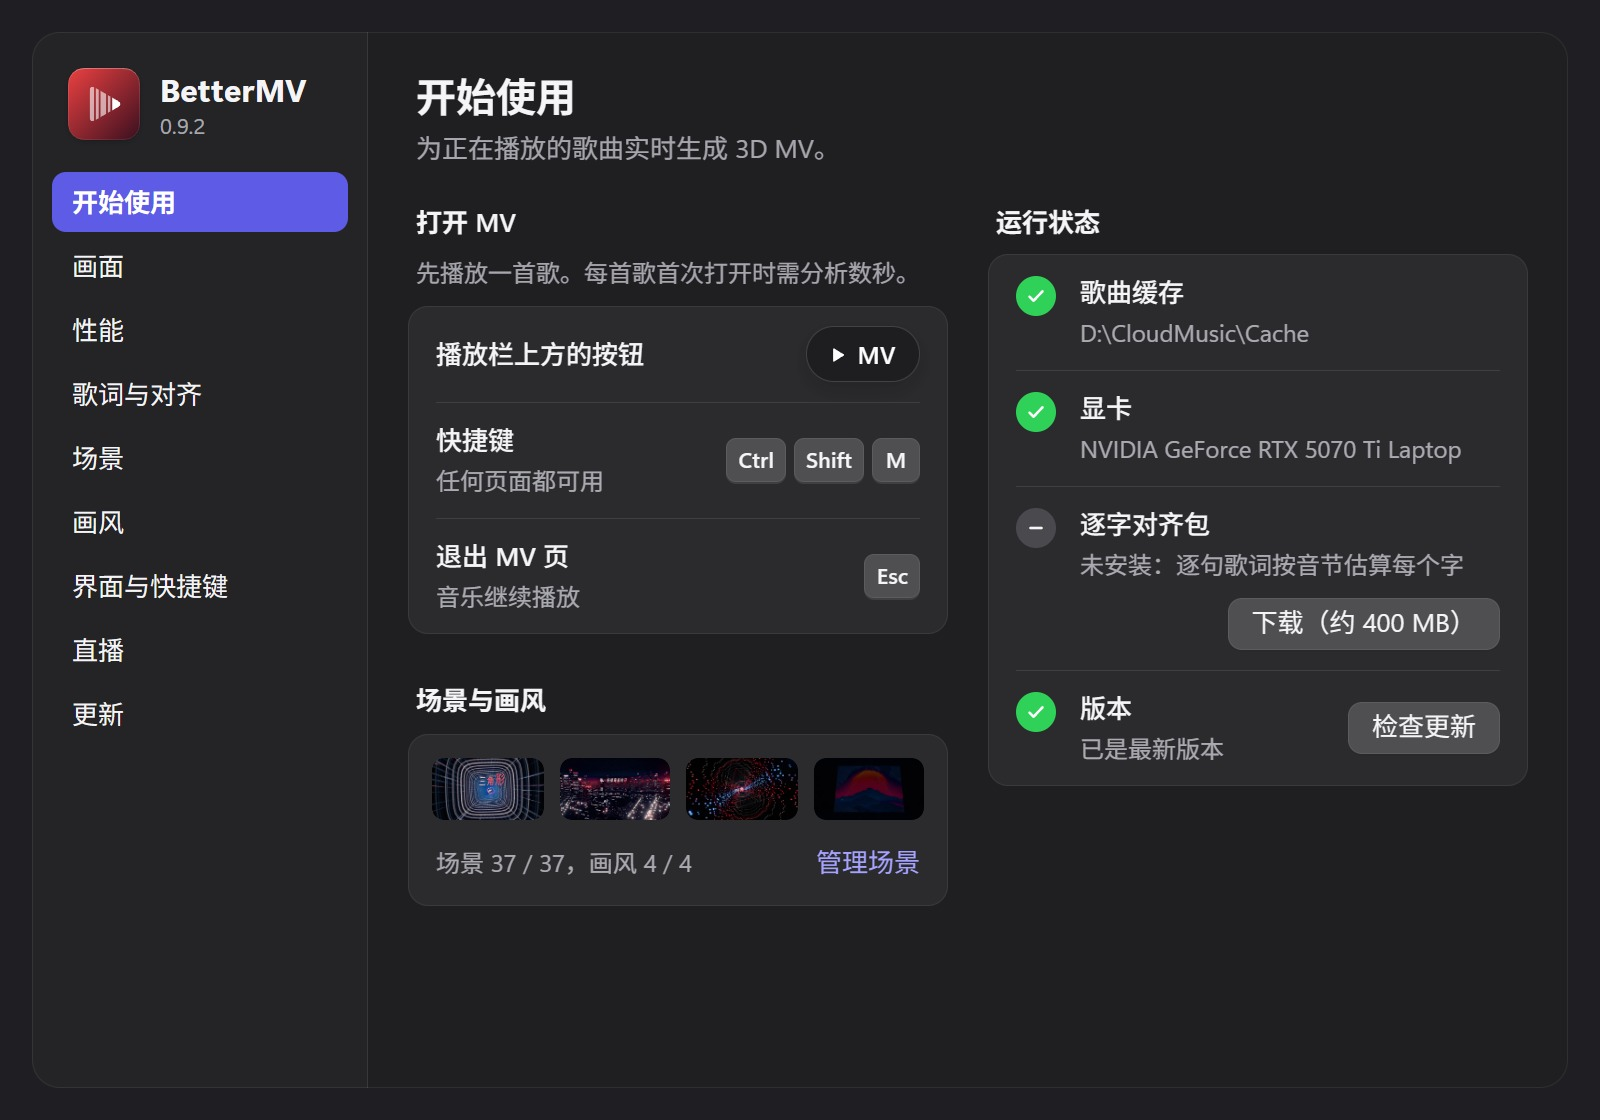
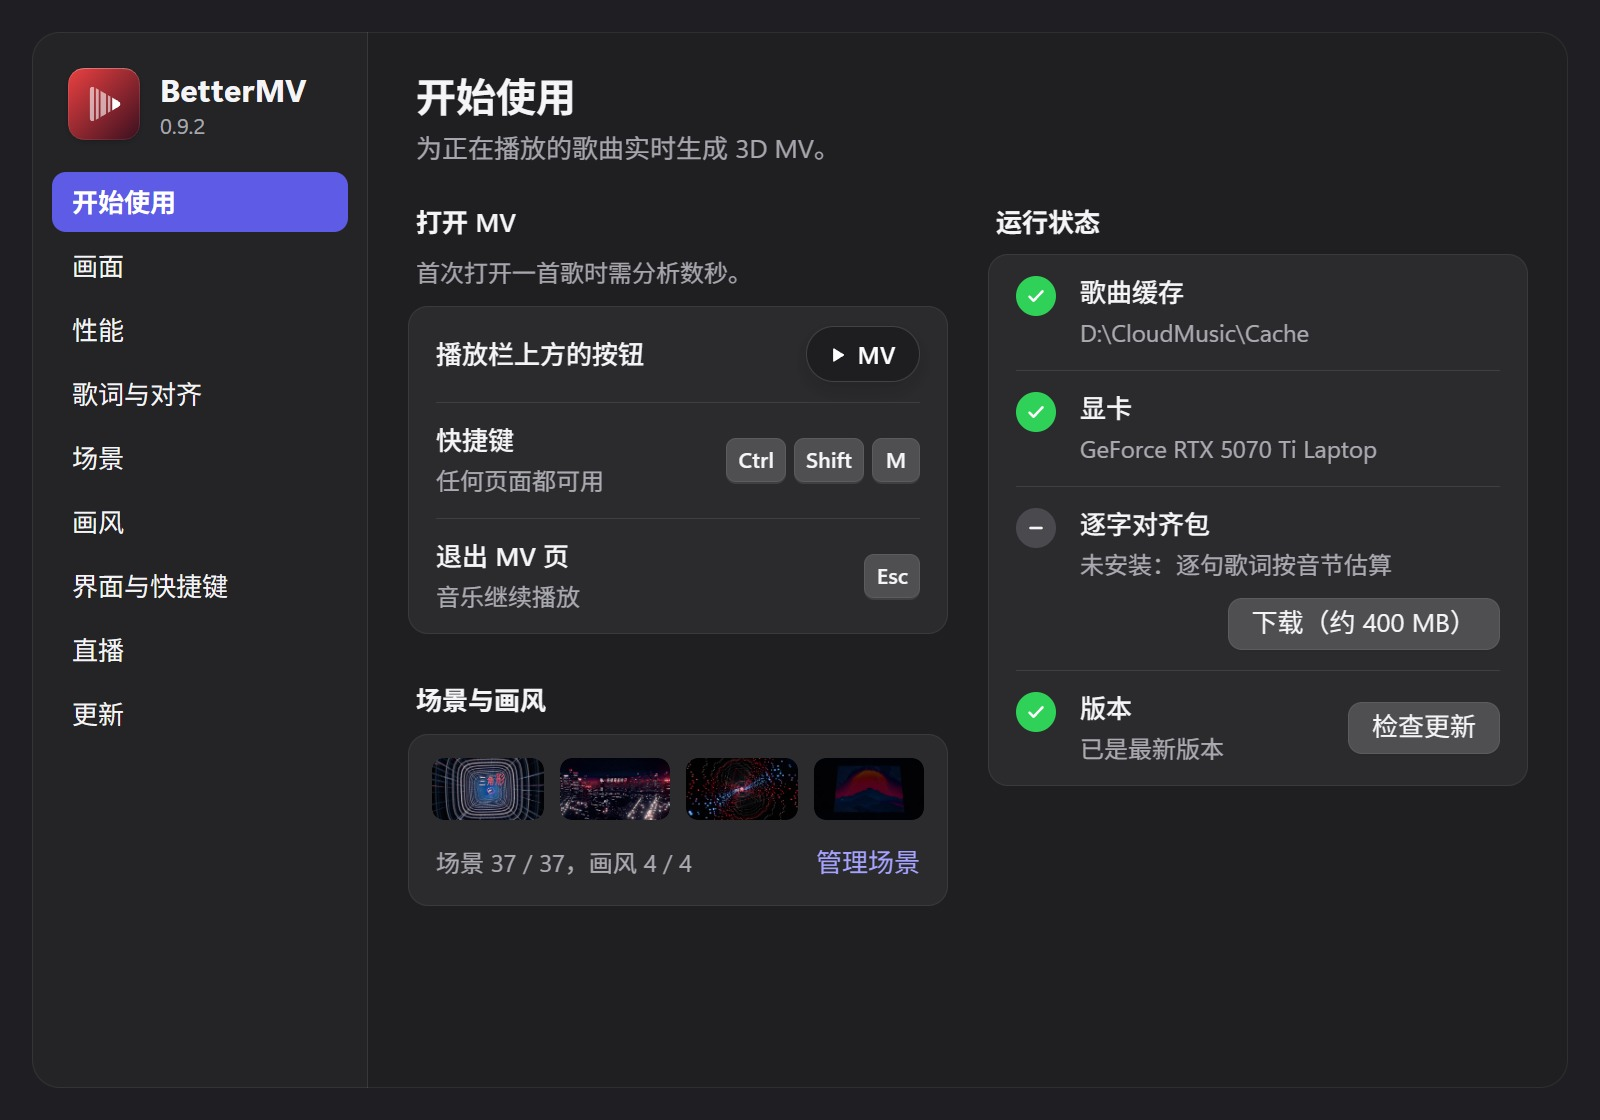
fix: 设置页在网易云面板宽度下的三处单字换行

Changed region(s): [[0.25, 0.2188, 0.5625, 0.25], [0.6875, 0.375, 0.9062, 0.4062], [0.875, 0.5, 0.9062, 0.5312]]

diff --git a/src/plugin/ui.ts b/src/plugin/ui.ts
@@ -1154,8 +1154,8 @@ function gpuInfo(): { webgl2: boolean; name: string } {
     gl.getExtension('WEBGL_lose_context')?.loseContext();
     // “ANGLE (NVIDIA, NVIDIA GeForce RTX 5070 Ti Laptop GPU (0x00002F58) Direct3D11 vs_5_0 ps_5_0, D3D11)” → the model.
     const m = raw.match(/^ANGLE \([^,]*, (.+?)(?: \(0x[0-9a-f]+\))?(?: Direct3D[^,]*)?, [^,]*\)$/i);
-    // (Without the trademark marks and a trailing “GPU”, it fits the status row's line.)
-    const name = (m ? m[1] : raw).replace(/\((?:R|TM)\)/gi, '').replace(/\s+GPU$/i, '').trim();
+    // (Without the trademark marks, a trailing “GPU” and “NVIDIA” before its own brands, it fits the status row's line.)
+    const name = (m ? m[1] : raw).replace(/\((?:R|TM)\)/gi, '').replace(/\s+GPU$/i, '').replace(/^NVIDIA (?=GeForce|Quadro|RTX|TITAN)/i, '').trim();
     return (gpu = { webgl2: true, name: name.slice(0, 64) });
   } catch { return (gpu = { webgl2: false, name: '' }); }
 }
@@ -1417,14 +1417,14 @@ export function settingsView(config: Config, onChange: (c: Config) => void, prev
     if (st.kind === 'checking') { state('正在检查…'); set?.('off', '正在检查'); }
     else if (st.kind === 'none') {
       ctl.append(button(full ? '下载对齐包（约 400 MB）' : '下载（约 400 MB）', () => void installPack()));
-      set?.('off', '未安装：逐句歌词按音节估算每个字');
+      set?.('off', '未安装：逐句歌词按音节估算');
     } else if (st.kind === 'installing') {
       const downloading = st.total && st.note.indexOf('正在下载') === 0;
       ctl.append(meter(downloading ? `正在下载 ${mb(st.done)} / ${mb(st.total)} MB` : st.note, st.total ? st.done / st.total : 0));
       set?.('off', '正在安装');
     } else if (st.kind === 'ready') {
       if (full) { state('已安装'); ctl.append(button('删除', () => void removePack())); }
-      set?.('ok', '已安装：逐句歌词按音频对齐每个字');
+      set?.('ok', '已安装：逐句歌词按音频对齐');
     } else if (st.kind === 'removing') { state('正在删除…'); set?.('off', '正在删除'); }
     else {
       state('安装失败：' + st.message, true);
@@ -1775,7 +1775,7 @@ export function settingsView(config: Config, onChange: (c: Config) => void, prev
     start.root.append(cols);
 
     into = colA;
-    const open = group(section('打开 MV', undefined, '先播放一首歌。每首歌首次打开时需分析数秒。'));
+    const open = group(section('打开 MV', undefined, '首次打开一首歌时需分析数秒。'));
     // The button as it looks above NetEase's play bar.
     const sample = el('span', 'bmv-mvbtn-sample');
     sample.innerHTML = `${icon('play', 11)}<span>MV</span>`;
